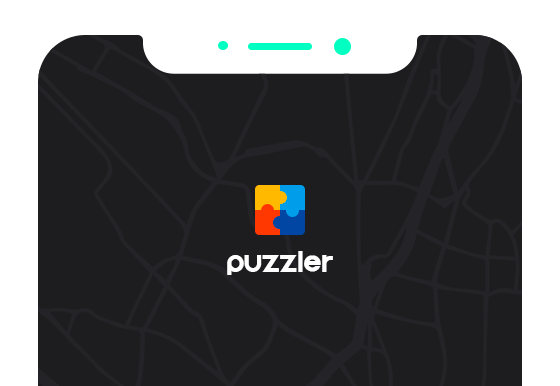
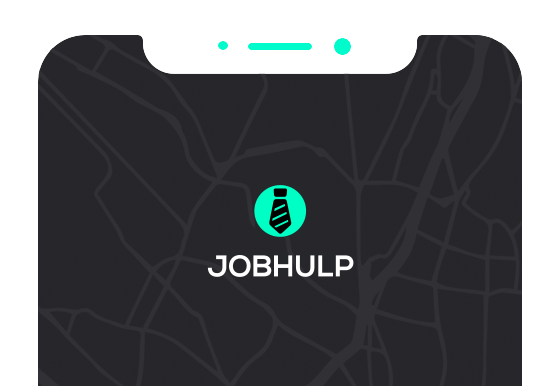
update

Changed region(s): [[0.3643, 0.6528, 0.6375, 0.715], [0.4554, 0.4663, 0.5464, 0.6218]]

diff --git a/components/how-it-works/Employer.tsx b/components/how-it-works/Employer.tsx
@@ -7,7 +7,7 @@ const Employer: React.FC = () => {
         <div className="row mb60">
           <div className="col-lg-12 col-md-12 col-sm-12 col-xs-12">
             <header className="crumina-module crumina-heading heading--h2 heading--with-decoration decoration--red-theme heading--inline mb-0">
-              <h2 className="heading-title">Zoek een professional</h2>
+              <h2 className="heading-title">Zoek een medewerker</h2>
               <div className="heading-text">Lorem ipsum dolor sit amet, consectetur adipiscing elit, sed do eiusmod tempor incididunt ut labore et dolore magna aliqua.</div>
             </header>
           </div>
@@ -17,7 +17,7 @@ const Employer: React.FC = () => {
           <div className="col-lg-4 col-md-4 col-sm-12 col-xs-12 mb-4 mb-md-0">
             <div className="crumina-module crumina-info-box info-box--standard">
               <div className="info-box-content">
-                <a href="" className="h3 info-box-title" data-toggle="modal" data-target="#signupModal">maak een account</a>
+                <a href="" className="h3 info-box-title" data-toggle="modal" data-target="#signupModal">maak een bedrijfsaccount</a>
                 <p className="info-box-text">Duis aute irure dolor in reprehenderit in voluptate velit esse cillum dolore eu fugiat nulla pariatur excepteur sint occaecat cupidatat.</p>
               </div>
               <div className="info-box-thumb">
@@ -45,7 +45,7 @@ const Employer: React.FC = () => {
           <div className="col-lg-4 col-md-4 col-sm-12 col-xs-12 mb-0">
             <div className="crumina-module crumina-info-box info-box--standard">
               <div className="info-box-content">
-                <a href="03_job_lists_row_map.html" className="h3 info-box-title">Huur een werknemer in</a>
+                <a href="03_job_lists_row_map.html" className="h3 info-box-title">Neem een werknemer aan</a>
                 <p className="info-box-text">Ut enim ad minim veniam, quis nostrud exercitation ullamco laboris nisi ut aliquip ex ea commodo consequat.</p>
               </div>
               <div className="info-box-thumb">